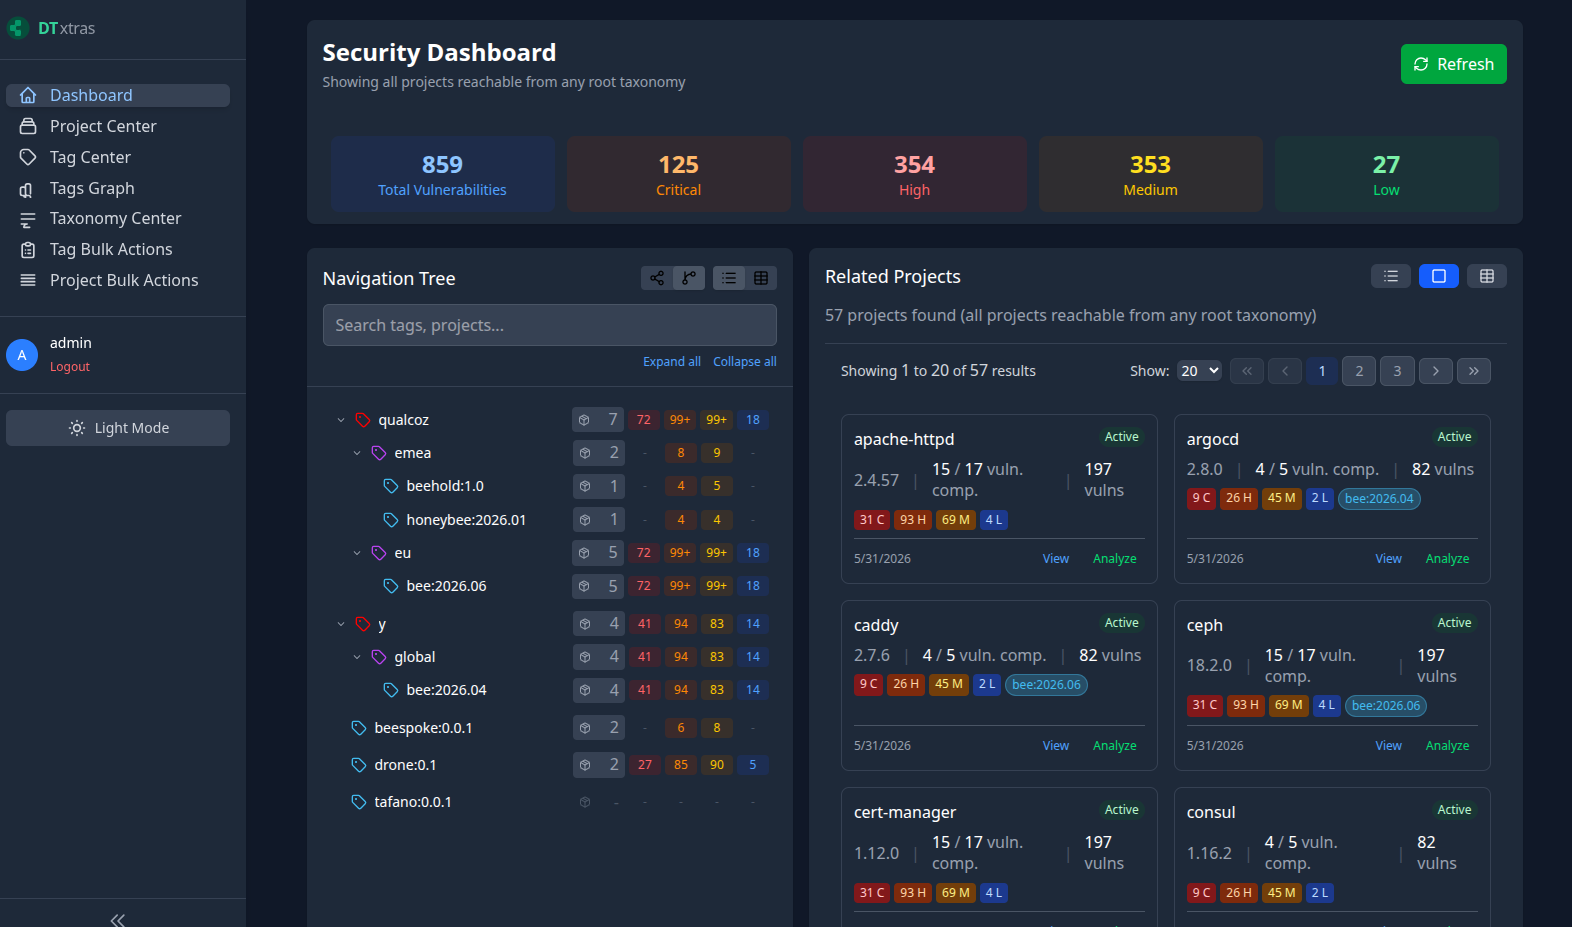
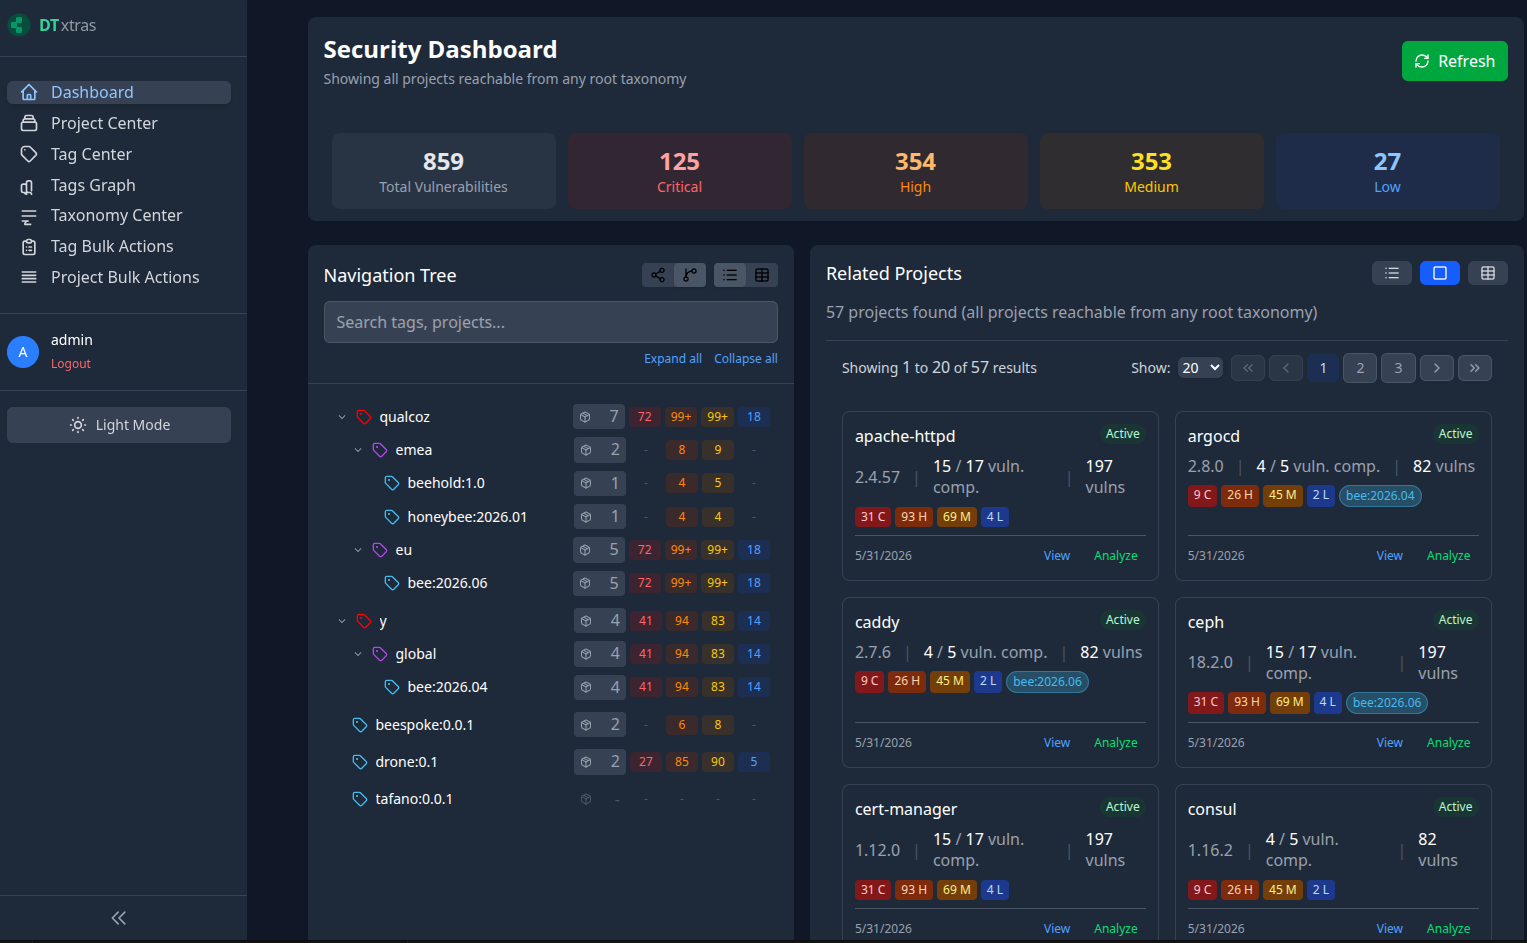
fix: use proper colors on security dashboard summary

diff --git a/frontend/src/components/SecurityOverview.vue b/frontend/src/components/SecurityOverview.vue
@@ -14,25 +14,28 @@
     </div>
 
     <!-- Security overview cards -->
+    <!-- Severity colours match the rest of the UI: critical=red, high=orange,
+         medium=yellow, low=blue. Total is a neutral aggregate (gray), so blue
+         unambiguously means "low" everywhere. -->
     <div v-else class="grid grid-cols-2 sm:grid-cols-3 lg:grid-cols-5 gap-3">
-      <div class="bg-blue-50 dark:bg-blue-900/20 p-3 rounded-lg">
+      <div class="bg-gray-100 dark:bg-gray-700/40 p-3 rounded-lg">
         <div class="text-center">
-          <div class="text-2xl font-bold text-blue-600 dark:text-blue-300">{{ total }}</div>
-          <div class="text-sm text-blue-600 dark:text-blue-400">Total Vulnerabilities</div>
-        </div>
-      </div>
-
-      <div class="bg-orange-50 dark:bg-orange-900/20 p-3 rounded-lg">
-        <div class="text-center">
-          <div class="text-2xl font-bold text-orange-600 dark:text-orange-300">{{ critical }}</div>
-          <div class="text-sm text-orange-600 dark:text-orange-400">Critical</div>
+          <div class="text-2xl font-bold text-gray-700 dark:text-gray-200">{{ total }}</div>
+          <div class="text-sm text-gray-600 dark:text-gray-400">Total Vulnerabilities</div>
         </div>
       </div>
 
       <div class="bg-red-50 dark:bg-red-900/20 p-3 rounded-lg">
         <div class="text-center">
-          <div class="text-2xl font-bold text-red-600 dark:text-red-300">{{ high }}</div>
-          <div class="text-sm text-red-600 dark:text-red-400">High</div>
+          <div class="text-2xl font-bold text-red-600 dark:text-red-300">{{ critical }}</div>
+          <div class="text-sm text-red-600 dark:text-red-400">Critical</div>
+        </div>
+      </div>
+
+      <div class="bg-orange-50 dark:bg-orange-900/20 p-3 rounded-lg">
+        <div class="text-center">
+          <div class="text-2xl font-bold text-orange-600 dark:text-orange-300">{{ high }}</div>
+          <div class="text-sm text-orange-600 dark:text-orange-400">High</div>
         </div>
       </div>
 
@@ -43,10 +46,10 @@
         </div>
       </div>
 
-      <div class="bg-green-50 dark:bg-green-900/20 p-3 rounded-lg">
+      <div class="bg-blue-50 dark:bg-blue-900/20 p-3 rounded-lg">
         <div class="text-center">
-          <div class="text-2xl font-bold text-green-600 dark:text-green-300">{{ low }}</div>
-          <div class="text-sm text-green-600 dark:text-green-400">Low</div>
+          <div class="text-2xl font-bold text-blue-600 dark:text-blue-300">{{ low }}</div>
+          <div class="text-sm text-blue-600 dark:text-blue-400">Low</div>
         </div>
       </div>
     </div>
